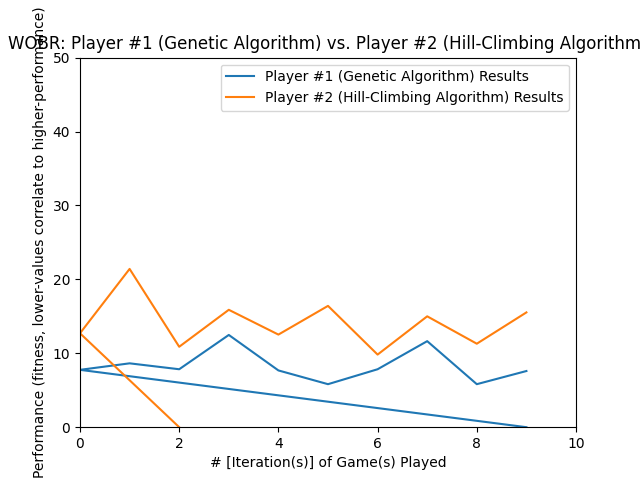
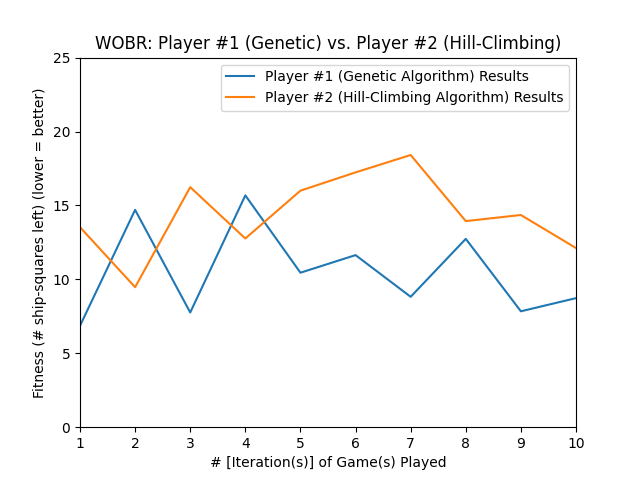
alpha implementation of sitrep of warops.py (plotting & graphing)

diff --git a/main.py b/main.py
@@ -35,10 +35,10 @@ OPPONENT_ONE = 1
 def main():
     print("./WOBR.sh: WELCOME, GENERAL.")
 
-    x1points = np.empty(1)
-    x2points = np.empty(1)
-    y1points = np.empty(1)
-    y2points = np.empty(1)
+    x1points = []
+    x2points = []
+    y1points = []
+    y2points = []
     
    # x1points = np.append(x1points, 0)
     #y1points = np.append(y1points, 0)
@@ -51,7 +51,7 @@ def main():
     genalgo = GeneticAlgorithm(POPULATIONSIZE, MUTATIONRATE, CROSSOVERRATE,
                                 ELITES, TOURNAMENT)
         
-    x1points = np.append(x1points, 0)
+    x1points = np.append(x1points, 1)
     y1points = np.append(y1points, genalgo.run(GENERATIONS))
     
     for idx in range(ITERATIONS - 1):
@@ -59,7 +59,7 @@ def main():
         genalgo = GeneticAlgorithm(POPULATIONSIZE, MUTATIONRATE, CROSSOVERRATE,
                                 ELITES, TOURNAMENT)
         
-        x1points = np.append(x1points, idx + 1)
+        x1points = np.append(x1points, idx + 2)
         y1points = np.append(y1points, genalgo.run(GENERATIONS))
         
     # for x1 in range(int(len(geneticresults) / ITERATIONS)):
@@ -82,7 +82,7 @@ def main():
 
     hill_climbing = HillClimbing()
     
-    x2points = np.append(x2points, 0)
+    x2points = np.append(x2points, 1)
     y2points = np.append(y2points, hill_climbing.run())
     
     for idx in range(ITERATIONS - 1):
@@ -91,7 +91,7 @@ def main():
 
         hill_climbing = HillClimbing()
         
-        x2points = np.append(x2points, idx + 1)
+        x2points = np.append(x2points, idx + 2)
         y2points = np.append(y2points, hill_climbing.run())
         
     # for x2 in range(int(len(hillresults) / ITERATIONS)):
@@ -110,7 +110,7 @@ def main():
     print("./WOBR.sh: BOTH GENETIC & HILL-CLIMBING ALGORITHMS COMPLETE.")
     print("./WOBR.sh: GENERATING SITUATIONAL REPORT...")
     
-    sitrep(x1points, x2points, y1points, y2points, supercowmode="Bruh")
+    sitrep(x1points, x2points, y1points, y2points)#, supercowmode="ye")
 
 if __name__ == "__main__":
     if sys.version_info.major >= 3:

diff --git a/warops.py b/warops.py
@@ -18,12 +18,12 @@ def sitrep(x1, x2, y1, y2, supercowmode=None):
         p.plot(x1, y1, label = 'Player #1 (Genetic Algorithm) Results')
         p.plot(x2, y2, label = 'Player #2 (Hill-Climbing Algorithm) Results')
 
-        p.title('WOBR: Player #1 (Genetic Algorithm) vs. Player #2 (Hill-Climbing Algorithm)')
+        p.title('WOBR: Player #1 (Genetic) vs. Player #2 (Hill-Climbing)')
         p.xlabel('# [Iteration(s)] of Game(s) Played')
-        p.ylabel('Performance (fitness, lower-values correlate to higher-performance)')
+        p.ylabel('Fitness (# ship-squares left) (lower = better)')
 
-        p.xlim([0, 10])
-        p.ylim([0, 50])
+        p.xlim([1, 10])
+        p.ylim([0, 25])
         
         p.legend()
         # p.show()
